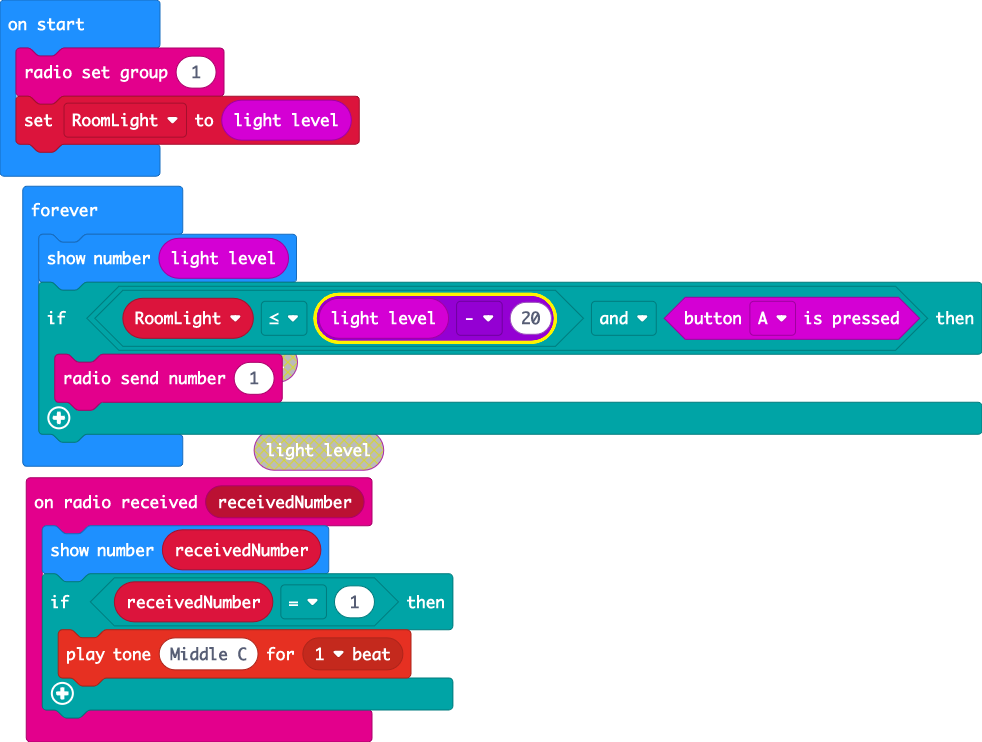
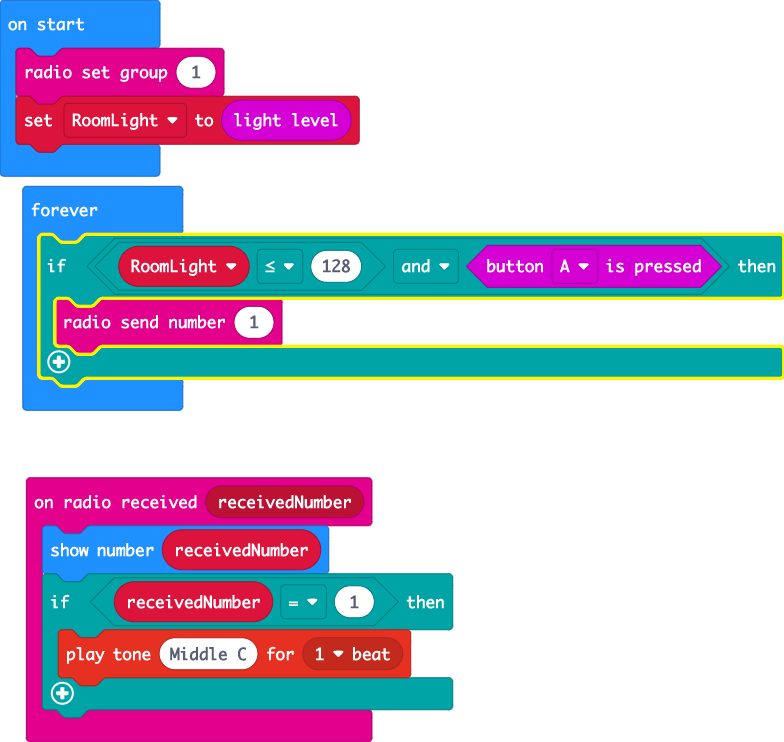
Update main.blocks, main.ts

diff --git a/main.ts b/main.ts
@@ -7,8 +7,7 @@ radio.onReceivedNumber(function (receivedNumber) {
 radio.setGroup(1)
 let RoomLight = input.lightLevel()
 basic.forever(function () {
-    basic.showNumber(input.lightLevel())
-    if (RoomLight <= input.lightLevel() - 20 && input.buttonIsPressed(Button.A)) {
+    if (RoomLight <= 128 && input.buttonIsPressed(Button.A)) {
         radio.sendNumber(1)
     }
 })
